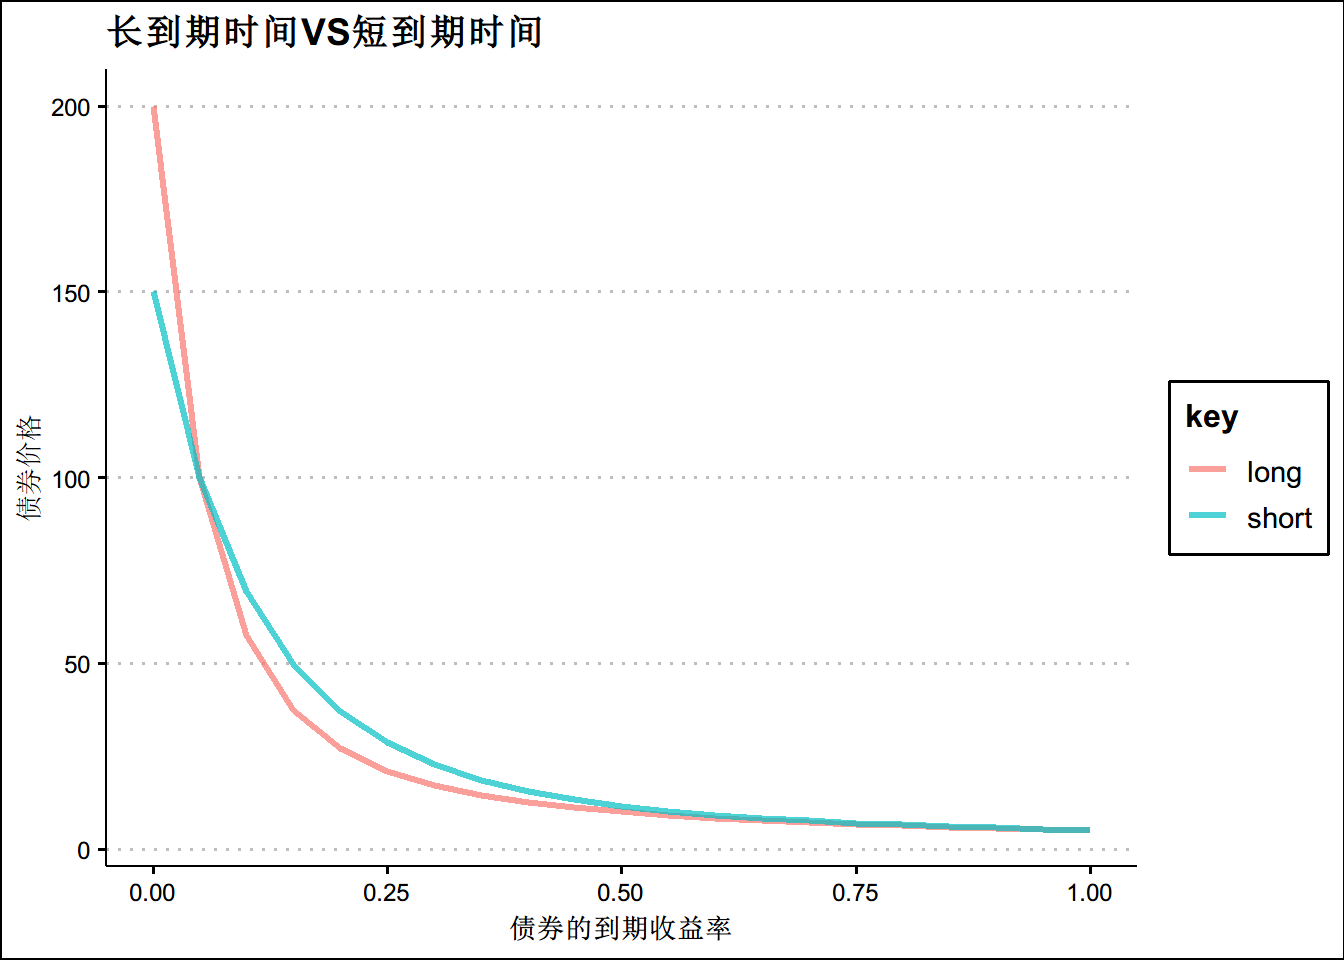
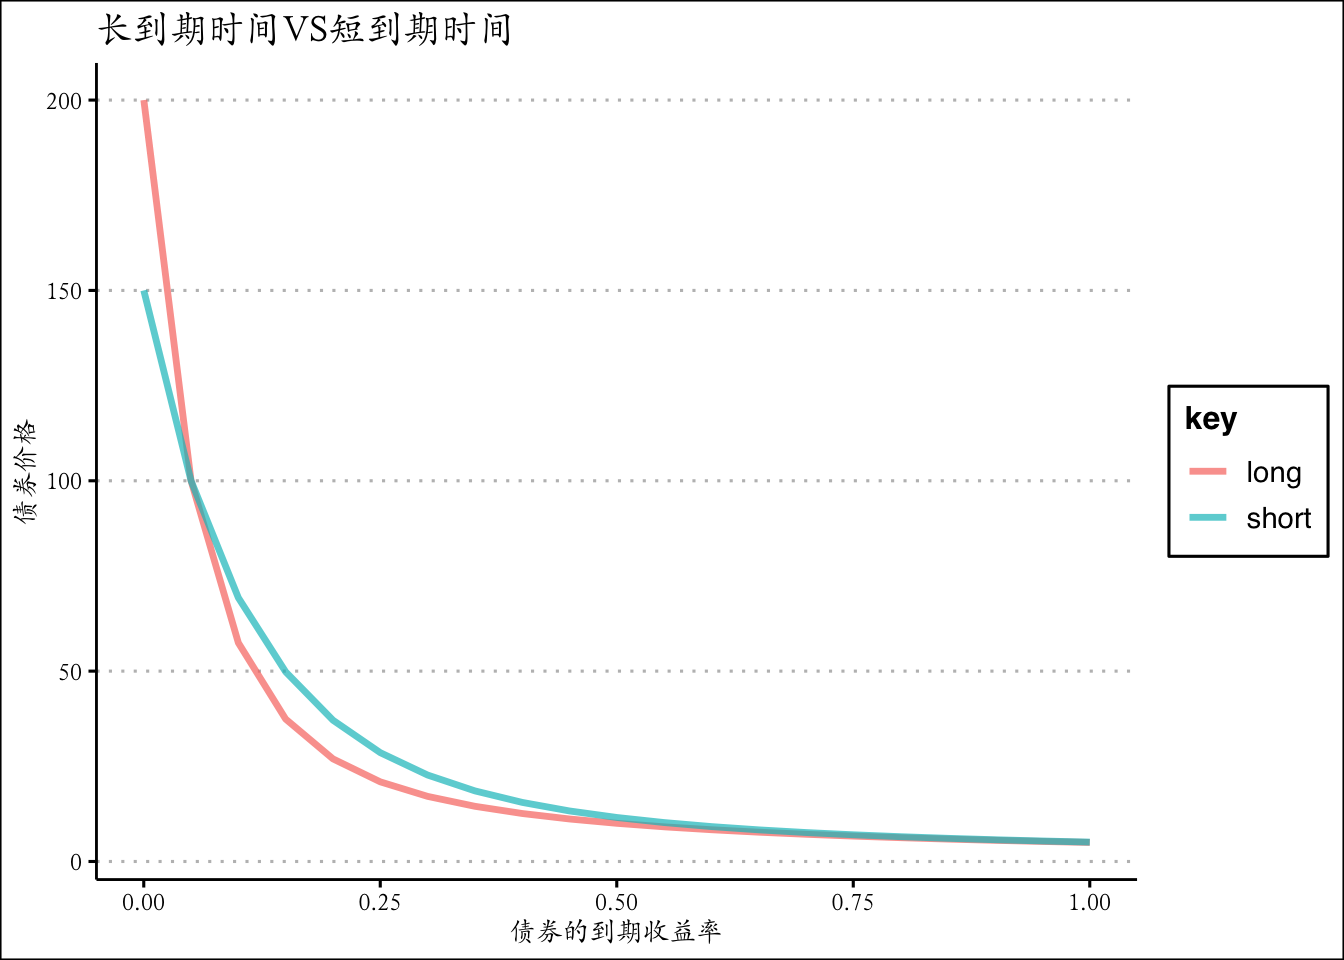
updatebond

diff --git a/post/2020/03/21/bond-valuation/index.html b/post/2020/03/21/bond-valuation/index.html
@@ -124,7 +124,7 @@ for (i in seq(0,1,by=0.05)){
 df &lt;- tibble(bond_v = sim_bond,r=seq(0,1,by=0.05))
 ggplot(df,mapping = aes(x=r,y=bond_v))+  geom_point()+
          geom_line() + theme_clean()+ggtitle(&#39;只改变息票率r其他因素保持不变&#39;)+
-  xlab(&quot;债券的息票率&quot;) + ylab(&#39;债券价格&#39;)</code></pre>
+  xlab(&quot;债券的息票率&quot;) + ylab(&#39;债券价格&#39;)+theme(text = element_text(family=&#39;Kai&#39;))</code></pre>
 <p><img src="/post/bond-valuation_files/figure-html/unnamed-chunk-3-1.png" width="672" /></p>
 <pre class="r"><code>#依葫芦画瓢
 sim_bond &lt;- NULL
@@ -134,7 +134,7 @@ for (i in seq(0,1,by=0.05)){
 df &lt;- tibble(bond_v = sim_bond,y=seq(0,1,by=0.05))
 ggplot(df,mapping = aes(x=y,y=bond_v))+ geom_point()+
          geom_line() + theme_clean()+ggtitle(&#39;只改变到期收益率y其他因素保持不变&#39;)+
-  xlab(&quot;债券的到期收益率&quot;) + ylab(&#39;债券价格&#39;)</code></pre>
+  xlab(&quot;债券的到期收益率&quot;) + ylab(&#39;债券价格&#39;)+theme(text = element_text(family=&#39;Kai&#39;))</code></pre>
 <p><img src="/post/bond-valuation_files/figure-html/unnamed-chunk-4-1.png" width="672" /></p>
 <pre class="r"><code>#依葫芦画瓢2
 sim_bond &lt;- NULL
@@ -144,7 +144,7 @@ for (i in seq(1,30,by=1)){
 df &lt;- tibble(bond_v = sim_bond,t=seq(1,30,by=1))
 ggplot(df,mapping = aes(x=t,y=bond_v))+ geom_point()+
          geom_line() + theme_clean()+ggtitle(&#39;只改变到期时间t其他因素保持不变&#39;)+
-  xlab(&quot;债券的到期时间&quot;) + ylab(&#39;债券到期时间&#39;)</code></pre>
+  xlab(&quot;债券的到期时间&quot;) + ylab(&#39;债券到期时间&#39;)+theme(text = element_text(family=&#39;Kai&#39;))</code></pre>
 <p><img src="/post/bond-valuation_files/figure-html/unnamed-chunk-5-1.png" width="672" /></p>
 </div>
 </div>
@@ -170,19 +170,19 @@ ggplot(df,mapping = aes(x=t,y=bond_v))+ geom_point()+
 <div id="如果比较大的yield变化对债券价格的影响是非对称的" class="section level3">
 <h3>如果比较大的yield变化对债券价格的影响是非对称的</h3>
 <pre class="r"><code># 继续利用我们上面写的函数进行演示
-c_1 &lt;- bond_val(r=0.1,t=20,y=0.101)/bond_val(r=0.1,t=10,y=0.1)-1
-c_2 &lt;- bond_val(r=0.1,t=20,y=0.099)/bond_val(r=0.1,t=10,y=0.1)-1
+c_1 &lt;- bond_val(r=0.1,t=10,y=0.101)/bond_val(r=0.1,t=10,y=0.1)-1
+c_2 &lt;- bond_val(r=0.1,t=10,y=0.099)/bond_val(r=0.1,t=10,y=0.1)-1
 paste(&quot;到期收益率上涨时价格变化%&quot;,c_1)</code></pre>
-<pre><code>## [1] &quot;到期收益率上涨时价格变化% -0.00845577581019019&quot;</code></pre>
+<pre><code>## [1] &quot;到期收益率上涨时价格变化% -0.00611825929117416&quot;</code></pre>
 <pre class="r"><code>paste(&quot;到期收益率下降时价格变化%&quot;,c_2)</code></pre>
-<pre><code>## [1] &quot;到期收益率下降时价格变化% 0.00857199787894491&quot;</code></pre>
+<pre><code>## [1] &quot;到期收益率下降时价格变化% 0.00617105235319015&quot;</code></pre>
 <pre class="r"><code>#当到期收益率变化较大时
-c_3 &lt;- bond_val(r=0.1,t=20,y=0.14)/bond_val(r=0.1,t=10,y=0.1)-1
-c_4 &lt;- bond_val(r=0.1,t=20,y=0.06)/bond_val(r=0.1,t=10,y=0.1)-1
+c_3 &lt;- bond_val(r=0.1,t=10,y=0.14)/bond_val(r=0.1,t=10,y=0.1)-1
+c_4 &lt;- bond_val(r=0.1,t=10,y=0.06)/bond_val(r=0.1,t=10,y=0.1)-1
 paste(&quot;到期收益率上涨时价格变化%&quot;,c_3)</code></pre>
-<pre><code>## [1] &quot;到期收益率上涨时价格变化% -0.264925222064638&quot;</code></pre>
+<pre><code>## [1] &quot;到期收益率上涨时价格变化% -0.208644625851743&quot;</code></pre>
 <pre class="r"><code>paste(&quot;到期收益率下降时价格变化%&quot;,c_4)</code></pre>
-<pre><code>## [1] &quot;到期收益率下降时价格变化% 0.45879684874261&quot;</code></pre>
+<pre><code>## [1] &quot;到期收益率下降时价格变化% 0.294403482056588&quot;</code></pre>
 </div>
 <div id="票息率越低债券变异性更大敏感性越强受到到期收益率的影响越大" class="section level3">
 <h3>票息率越低，债券变异性更大（敏感性越强），受到到期收益率的影响越大</h3>
@@ -211,7 +211,8 @@ df &lt;- tibble(littlec = sim_bond,morec=sim_bond_2, y=seq(0,1,by=0.05)) %&gt;%
 
 ggplot(df,aes(x=y,y=value,color=key),size=1.1,alpha=0.7) +
   geom_line(size=1.1,alpha=0.7)+ggtitle(&#39;大票息vs小票息&#39;)+
-  xlab(&quot;债券的到期收益率&quot;) + ylab(&#39;债券价格&#39;)+theme_clean()</code></pre>
+  xlab(&quot;债券的到期收益率&quot;) + ylab(&#39;债券价格&#39;)+theme_clean()+
+  theme(text = element_text(family=&#39;Kai&#39;))</code></pre>
 <p><img src="/post/bond-valuation_files/figure-html/unnamed-chunk-8-1.png" width="672" /></p>
 </div>
 <div id="更长的到期时间债券变异性更大敏感性越强收到到期收益率的影响越大" class="section level3">
@@ -236,7 +237,8 @@ df &lt;- tibble(short = short,long=long, y=seq(0,1,by=0.05)) %&gt;%
 
 ggplot(df,aes(x=y,y=value,color=key),size=1.2,alpha=0.7) +
   geom_line(size=1.2,alpha=0.7)+ggtitle(&#39;长到期时间VS短到期时间&#39;)+
-  xlab(&quot;债券的到期收益率&quot;) + ylab(&#39;债券价格&#39;)+theme_clean()</code></pre>
+  xlab(&quot;债券的到期收益率&quot;) + ylab(&#39;债券价格&#39;)+theme_clean()+
+  theme(text = element_text(family=&#39;Kai&#39;))</code></pre>
 <p><img src="/post/bond-valuation_files/figure-html/unnamed-chunk-10-1.png" width="672" /></p>
 </div>
 </div>
@@ -342,7 +344,7 @@ sim_dur &lt;- c(sim_dur,duration= bond.duration(settle=&quot;2018-03-15&quot;, m
 df &lt;- tibble(coup =seq(0,0.2,by=0.01),sim_dur=sim_dur )
 ggplot(df,aes(x=coup,y=sim_dur)) +
   geom_line(size=1.3,alpha=0.5)+geom_point()+
-  ggtitle(&#39;票息和久期的关系&#39;) + xlab(&#39;票息率&#39;)+ylab(&#39;修正久期&#39;)</code></pre>
+  ggtitle(&#39;票息和久期的关系&#39;) + xlab(&#39;票息率&#39;)+ylab(&#39;修正久期&#39;)+theme(text = element_text(family=&#39;Kai&#39;))</code></pre>
 <p><img src="/post/bond-valuation_files/figure-html/unnamed-chunk-14-1.png" width="672" />
 ### 使用JrvFiance包计算债券ytm</p>
 <pre class="r"><code># yield参数结算日，到期日，票息率，当前价格
